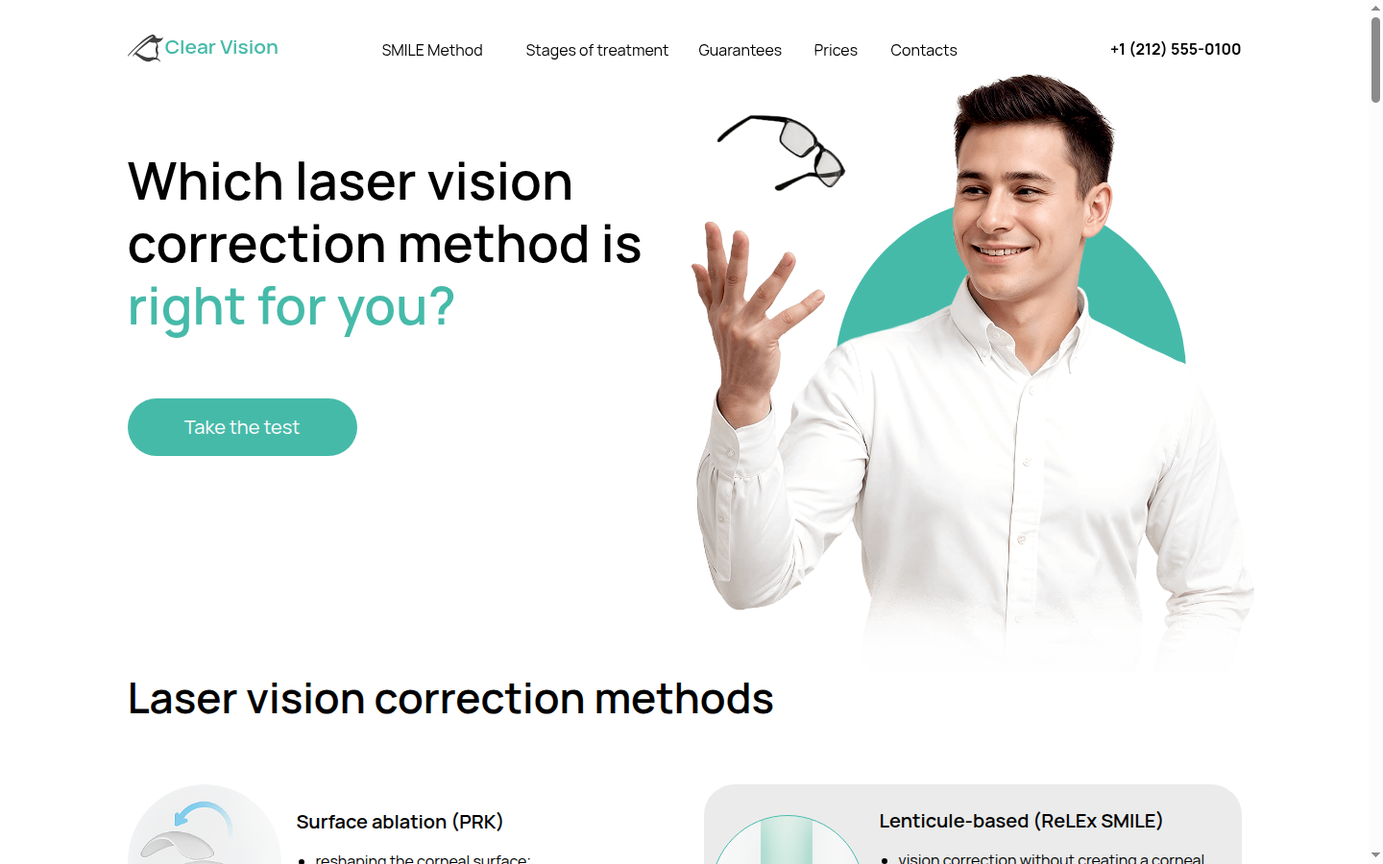
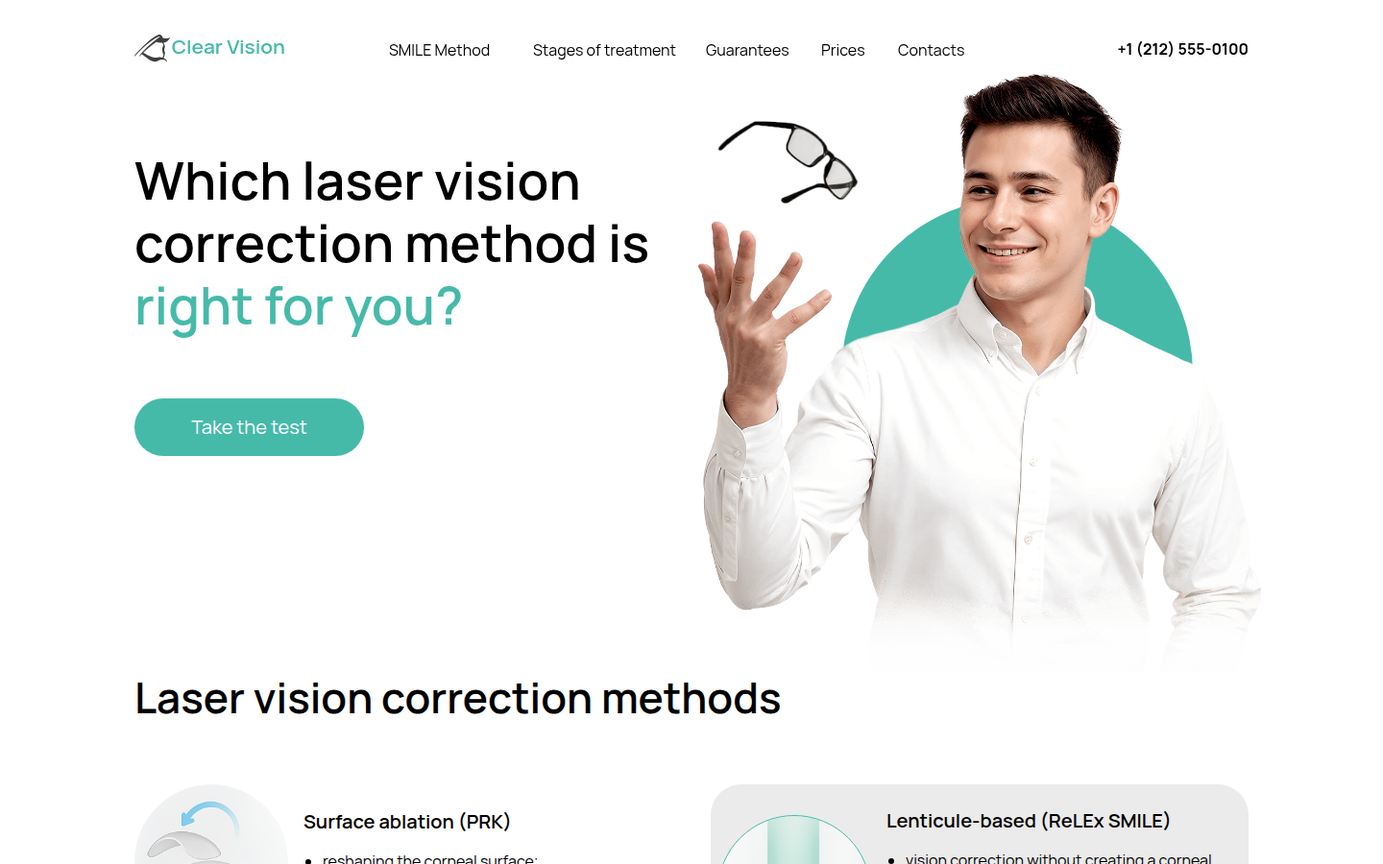
Refresh case screenshots without scrollbars

diff --git a/ru/index.html b/ru/index.html
@@ -1,11 +1,11 @@
 <!doctype html>
 <html lang="ru"><head><meta charset="utf-8"><meta name="viewport" content="width=device-width,initial-scale=1"><title>Clear Vision — кейс сайта офтальмологической клиники</title><meta name="description" content="Кейс англоязычной адаптации сайта клиники зрения: задача, решения и дизайн."><meta property="og:title" content="Clear Vision — кейс сайта клиники зрения"><meta property="og:description" content="Понятный путь пациента на сайте клиники зрения."><meta property="og:type" content="website"><link rel="stylesheet" href="../style.css"><link rel="icon" href="../assets/img/favicon.svg" type="image/svg+xml"><style>section[id]{scroll-margin-top:64px}</style></head>
 <body><header class="bar"><div class="wrap"><span class="name-ph"><img src="../assets/img/maksim-avatar.webp" alt="" width="30" height="30">Максим Коцарь<em> · сайты для медицинских клиник</em></span><nav class="nav" aria-label="Разделы"><a href="#task">Задача</a><a href="#process">Процесс</a><a href="#decisions">Решения</a><a href="#design">Дизайн</a><a href="#result">Итог</a><a href="#reflection">Выводы</a></nav><div class="bar-r"><a class="btn" href="#contact">Связаться</a><button class="burger" type="button" aria-expanded="false" aria-controls="menu" aria-label="Открыть меню"><i></i></button></div></div><nav class="menu" id="menu" aria-label="Мобильное меню"><small>Разделы</small><a href="#task">Задача</a><a href="#process">Процесс</a><a href="#decisions">Решения</a><a href="#design">Дизайн</a><a href="#result">Итог</a><a href="#reflection">Выводы</a><a class="btn" href="#contact">Связаться</a></nav><div class="progress" aria-hidden="true"></div></header>
-<main><div class="hero"><div class="wrap"><div class="hb-top"><div><div class="kicker">Концепт-кейс · Сайт клиники</div><h1><span class="hb-name">Clear Vision</span><span class="hb-sub">понятный путь пациента на сайте офтальмологической клиники</span></h1></div><div class="hb-right"><p class="lead">Лазерная коррекция зрения вызывает много вопросов. Англоязычная адаптация существующего сайта клиники помогает посетителю пройти путь от первого вопроса до консультации.</p><a class="site-link" href="https://clearvision.kotsardesign.com/" target="_blank" rel="noopener">Открыть сайт <span aria-hidden="true">↗</span></a></div></div><div class="teaser-frame"><a class="browser-shot" href="https://clearvision.kotsardesign.com/" target="_blank" rel="noopener" aria-label="Открыть сайт Clear Vision"><div class="browser-top" aria-hidden="true"><i></i><i></i><i></i><span>clearvision.kotsardesign.com</span></div><img src="../assets/img/desktop-hero.png" alt="Первый экран сайта Clear Vision" width="1440" height="900"></a></div><div class="hb-meta"><div><small>Проект</small><strong>Clear Vision</strong><span>концепция сайта клиники зрения</span></div><div><small>Моя роль</small><strong>Адаптация дизайна</strong><span>английские тексты, адаптив и фронтенд</span></div><div><small>Интерактив</small><strong>Тест из 6 шагов</strong><span>первый шаг к ответам на вопросы пациента</span></div><div class="res"><small>Итог</small><strong>Единый путь</strong><span>от знакомства с методиками до консультации</span></div></div></div></div>
+<main><div class="hero"><div class="wrap"><div class="hb-top"><div><div class="kicker">Концепт-кейс · Сайт клиники</div><h1><span class="hb-name">Clear Vision</span><span class="hb-sub">понятный путь пациента на сайте офтальмологической клиники</span></h1></div><div class="hb-right"><p class="lead">Лазерная коррекция зрения вызывает много вопросов. Англоязычная адаптация существующего сайта клиники помогает посетителю пройти путь от первого вопроса до консультации.</p><a class="site-link" href="https://clearvision.kotsardesign.com/" target="_blank" rel="noopener">Открыть сайт <span aria-hidden="true">↗</span></a></div></div><div class="teaser-frame"><a class="browser-shot" href="https://clearvision.kotsardesign.com/" target="_blank" rel="noopener" aria-label="Открыть сайт Clear Vision"><div class="browser-top" aria-hidden="true"><i></i><i></i><i></i><span>clearvision.kotsardesign.com</span></div><img src="../assets/img/desktop-hero.png?v=2" alt="Первый экран сайта Clear Vision" width="1440" height="900"></a></div><div class="hb-meta"><div><small>Проект</small><strong>Clear Vision</strong><span>концепция сайта клиники зрения</span></div><div><small>Моя роль</small><strong>Адаптация дизайна</strong><span>английские тексты, адаптив и фронтенд</span></div><div><small>Интерактив</small><strong>Тест из 6 шагов</strong><span>первый шаг к ответам на вопросы пациента</span></div><div class="res"><small>Итог</small><strong>Единый путь</strong><span>от знакомства с методиками до консультации</span></div></div></div></div>
 <section id="task"><div class="wrap"><div class="sec-head"><div><div class="kicker">Задача</div><h2>Помочь пациенту разобраться до обращения</h2></div><p class="lead">Адаптировать подробный сайт о коррекции зрения для англоязычной аудитории, сохранив спокойный характер и узнаваемый стиль оригинала.</p></div><p class="obj-intro">Решение об операции на глазах — личный выбор. Сайт должен помогать разобраться в сложной информации и отвечать на вопросы, с которыми приходит посетитель.</p><div class="objections"><div class="obj"><div class="q">«С чего начать?»</div><p>Разные методики и незнакомые термины затрудняют первый шаг.</p></div><div class="obj"><div class="q">«Что будет дальше?»</div><p>Посетителю важно понять, как проходят консультация, процедура и восстановление.</p></div><div class="obj"><div class="q">«Кому доверить зрение?»</div><p>Информация о врачах, оборудовании и наблюдении должна быть на виду.</p></div><div class="obj"><div class="q">«Можно задать вопрос?»</div><p>Когда посетитель готов обратиться, следующий шаг должен быть понятен.</p></div></div></div></section>
 <section id="process"><div class="wrap"><div class="sec-head"><div><div class="kicker">Процесс</div><h2>Путь, выстроенный вокруг вопросов пациента</h2></div><p class="lead">Я выстроил страницу как последовательность ответов: какие есть варианты, как всё проходит, кто будет заниматься лечением и как записаться?</p></div><div class="journey"><span>Вопрос</span><em>→</em><span>Методики</span><em>→</em><span>Процедура</span><em>→</em><span>Врачи</span><em>→</em><span>Восстановление</span><em>→</em><span>Консультация</span></div><div class="proto-grid"><figure class="proto-figure"><div class="proto-canvas"><div class="proto-bar short"></div><div class="proto-row"><div class="proto-content"><div class="proto-bar medium"></div><div class="proto-bar"></div><div class="proto-bar medium"></div><div class="proto-button"></div></div><div class="proto-box dark"></div></div><div class="proto-bar medium"></div><div class="proto-row"><div class="proto-box"></div><div class="proto-box"></div><div class="proto-box"></div></div><div class="proto-bar short"></div></div><figcaption>01 · Структура страницы: от первого вопроса до контакта</figcaption></figure><figure class="proto-figure"><div class="proto-canvas"><div class="proto-bar short"></div><div class="proto-bar medium"></div><div class="proto-box"></div><div class="proto-box"></div><div class="proto-box"></div><div class="proto-button"></div></div><figcaption>02 · Сравнение методик на одном экране</figcaption></figure><figure class="proto-figure"><div class="proto-canvas"><div class="proto-bar short"></div><div class="proto-bar medium"></div><div class="proto-box dark"></div><div class="proto-bar"></div><div class="proto-bar medium"></div><div class="proto-button"></div></div><figcaption>03 · Понятный путь к консультации</figcaption></figure></div><p class="case-note">Схемы восстановлены по готовой странице, чтобы показать логику расположения блоков.</p><p class="quote-note">Главный вывод: объяснять решения поэтапно, показывать специалистов и оставлять следующий шаг на виду.</p></div></section>
 <section id="decisions"><div class="wrap"><div class="sec-head"><div><div class="kicker">Ключевые решения</div><h2>Меньше неопределённости — больше ясности</h2></div><p class="lead">Знакомый визуальный язык и последовательная подача помогают понять предложение клиники до обращения.</p></div><div class="decisions"><article class="dec"><div class="n">01</div><h3>Начать с вопроса пациента</h3><p>Первый экран задаёт главный вопрос о выборе методики и предлагает начать с короткого теста.</p></article><article class="dec"><div class="n">02</div><h3>Сравнить методики</h3><p>SMILE, LASIK и поверхностная коррекция собраны рядом: различия можно увидеть, не разыскивая информацию по странице.</p></article><article class="dec"><div class="n">03</div><h3>Разделить процесс на этапы</h3><p>Подготовка, операция и восстановление показаны отдельно, чтобы последовательность было проще понять.</p></article><article class="dec"><div class="n">04</div><h3>Показать людей, а не только технологии</h3><p>Карточки с именами и опытом знакомят посетителя с врачами. Информация об оборудовании остаётся доступной для тех, кому она важна.</p></article><article class="dec"><div class="n">05</div><h3>Тест как начало разговора</h3><p>Шесть вопросов помогают посетителю подготовиться к консультации. Тест предлагает обсудить результаты с врачом.</p></article><article class="dec"><div class="n">06</div><h3>Удобство на небольшом экране</h3><p>В мобильной версии блоки выстроены друг за другом, текст легко читать, а кнопки удобно нажимать.</p></article></div></div></section>
-<section id="design"><div class="wrap"><div class="sec-head"><div><div class="kicker">Дизайн</div><h2>Спокойный визуальный стиль для важного решения</h2></div><div><p class="lead">Медицинские фотографии сочетаются с мягким серым фоном, свободным пространством и узнаваемым бирюзовым цветом клиники.</p><div class="legend"><div><span class="tag t-trust">Доверие</span> показывает специалистов и заботу</div><div><span class="tag t-want">Ясность</span> помогает быстро разобраться</div><div><span class="tag t-buy">Действие</span> подсказывает следующий шаг</div></div></div></div><figure class="shot"><div class="media"><img src="../assets/img/desktop-hero.png" alt="Первый экран сайта Clear Vision с кнопкой теста" loading="lazy" width="1440" height="900"></div><figcaption class="cap"><h3>Вопрос на первом экране<span class="tags"><span class="tag t-want">Ясность</span><span class="tag t-buy">Действие</span></span></h3><p>Заголовок превращает сложный выбор в понятный вопрос. Главная кнопка предлагает узнать о доступных вариантах.</p></figcaption></figure><figure class="shot"><div class="media"><img src="../assets/img/methods.png" alt="Сравнение методов коррекции зрения" loading="lazy" width="1440" height="900"></div><figcaption class="cap"><h3>Понятное сравнение методик<span class="tags"><span class="tag t-want">Ясность</span></span></h3><p>Иллюстрации и короткие описания помогают сравнить методики и разобраться в сложной теме.</p></figcaption></figure><figure class="shot"><div class="media"><img src="../assets/img/doctors.png" alt="Карточки специалистов и кнопки записи" loading="lazy" width="1440" height="900"></div><figcaption class="cap"><h3>Знакомство со специалистами<span class="tags"><span class="tag t-trust">Доверие</span></span></h3><p>Фотографии, должности и опыт показывают людей, которым пациент доверяет своё зрение. Рядом с каждой карточкой — кнопка записи.</p></figcaption></figure><figure class="shot"><div class="showcase-pair"><div class="media"><img src="../assets/img/recovery.png" alt="Информация о восстановлении и форма консультации" loading="lazy" width="1440" height="900"></div><div class="media"><img src="../assets/img/price.png" alt="Раздел стоимости коррекции зрения" loading="lazy" width="1440" height="900"></div></div><figcaption class="cap"><h3>Ответы до обращения<span class="tags"><span class="tag t-trust">Доверие</span><span class="tag t-buy">Действие</span></span></h3><p>Восстановлению, оборудованию и стоимости выделены отдельные блоки. Форма консультации появляется после необходимой информации.</p></figcaption></figure><figure class="shot"><div class="mobile-stage"><div class="phones"><div class="phone"><img src="../assets/img/mobile-hero.png" alt="Главная страница на телефоне" loading="lazy" width="390" height="844"></div><div class="phone"><img src="../assets/img/mobile-quiz.png" alt="Тест на телефоне" loading="lazy" width="390" height="844"></div></div></div><figcaption class="cap"><h3>Адаптация для телефона<span class="tags"><span class="tag t-buy">Действие</span></span></h3><p>На телефоне блоки расположены последовательно, а тест помещается на экране. Кнопки, текст и навигация остаются удобными.</p></figcaption></figure></div></section>
+<section id="design"><div class="wrap"><div class="sec-head"><div><div class="kicker">Дизайн</div><h2>Спокойный визуальный стиль для важного решения</h2></div><div><p class="lead">Медицинские фотографии сочетаются с мягким серым фоном, свободным пространством и узнаваемым бирюзовым цветом клиники.</p><div class="legend"><div><span class="tag t-trust">Доверие</span> показывает специалистов и заботу</div><div><span class="tag t-want">Ясность</span> помогает быстро разобраться</div><div><span class="tag t-buy">Действие</span> подсказывает следующий шаг</div></div></div></div><figure class="shot"><div class="media"><img src="../assets/img/desktop-hero.png?v=2" alt="Первый экран сайта Clear Vision с кнопкой теста" loading="lazy" width="1440" height="900"></div><figcaption class="cap"><h3>Вопрос на первом экране<span class="tags"><span class="tag t-want">Ясность</span><span class="tag t-buy">Действие</span></span></h3><p>Заголовок превращает сложный выбор в понятный вопрос. Главная кнопка предлагает узнать о доступных вариантах.</p></figcaption></figure><figure class="shot"><div class="media"><img src="../assets/img/methods.png?v=2" alt="Сравнение методов коррекции зрения" loading="lazy" width="1440" height="900"></div><figcaption class="cap"><h3>Понятное сравнение методик<span class="tags"><span class="tag t-want">Ясность</span></span></h3><p>Иллюстрации и короткие описания помогают сравнить методики и разобраться в сложной теме.</p></figcaption></figure><figure class="shot"><div class="media"><img src="../assets/img/doctors.png?v=2" alt="Карточки специалистов и кнопки записи" loading="lazy" width="1440" height="900"></div><figcaption class="cap"><h3>Знакомство со специалистами<span class="tags"><span class="tag t-trust">Доверие</span></span></h3><p>Фотографии, должности и опыт показывают людей, которым пациент доверяет своё зрение. Рядом с каждой карточкой — кнопка записи.</p></figcaption></figure><figure class="shot"><div class="showcase-pair"><div class="media"><img src="../assets/img/recovery.png?v=2" alt="Информация о восстановлении и форма консультации" loading="lazy" width="1440" height="900"></div><div class="media"><img src="../assets/img/price.png?v=2" alt="Раздел стоимости коррекции зрения" loading="lazy" width="1440" height="900"></div></div><figcaption class="cap"><h3>Ответы до обращения<span class="tags"><span class="tag t-trust">Доверие</span><span class="tag t-buy">Действие</span></span></h3><p>Восстановлению, оборудованию и стоимости выделены отдельные блоки. Форма консультации появляется после необходимой информации.</p></figcaption></figure><figure class="shot"><div class="mobile-stage"><div class="phones"><div class="phone"><img src="../assets/img/mobile-hero.png?v=2" alt="Главная страница на телефоне" loading="lazy" width="390" height="844"></div><div class="phone"><img src="../assets/img/mobile-quiz.png?v=2" alt="Тест на телефоне" loading="lazy" width="390" height="844"></div></div></div><figcaption class="cap"><h3>Адаптация для телефона<span class="tags"><span class="tag t-buy">Действие</span></span></h3><p>На телефоне блоки расположены последовательно, а тест помещается на экране. Кнопки, текст и навигация остаются удобными.</p></figcaption></figure></div></section>
 <section id="result"><div class="wrap"><div class="sec-head"><div><div class="kicker">Результат</div><h2>От сложного выбора к понятному шагу</h2></div><p class="lead">Получилась англоязычная концепция, которая сохраняет дизайн исходного сайта и делает содержание и основные сценарии доступнее для новой аудитории.</p></div><div class="ba"><div><small>Было</small><p>Русскоязычный сайт клиники с подробной информацией о лечении и сложившимся визуальным стилем.</p></div><div><small>Стало</small><p>Адаптивная англоязычная версия с тестом, обновлёнными текстами и понятной последовательностью блоков.</p></div><div><small>Что это даёт</small><p>Посетитель может изучить методики, познакомиться с врачами и найти следующий шаг на одной странице.</p></div></div><div class="stats"><div class="stat"><b>2 400</b><span>пример посещений</span></div><div class="stat"><b>78</b><span>пример обращений</span></div><div class="stat"><b>3,25%</b><span>пример конверсии</span></div><div class="stat"><b>68%</b><span>пример мобильной аудитории</span></div></div><p class="demo-note"><strong>Демонстрационные данные:</strong> эти цифры вымышлены и показывают формат будущего отчёта. Реальные результаты не измерялись.</p></div></section>
 <section id="reflection"><div class="wrap"><div class="sec-head"><div><div class="kicker">Вывод по проекту</div><h2>Ясность помогает почувствовать уверенность</h2></div><p class="lead">Медицинскому сайту нужно многое объяснить. Задача состояла в том, чтобы упорядочить информацию и сохранить характер оригинала.</p></div><div class="motion-note"><h3>Хороший дизайн помогает задавать правильные вопросы.</h3><p>Эта концепция показывает подход к удобному сайту для пациентов. Это работа для портфолио: отзыв клиента и реальные показатели не заявлены.</p></div></div></section>
 <section id="contact" class="contact"><picture class="contact-bg"><source media="(max-width:860px)" srcset="../assets/img/contact-mobile.webp" width="751" height="2000"><img src="../assets/img/contact-desktop.webp" alt="Максим Коцарь" width="1672" height="941" loading="lazy"></picture><div class="wrap contact-grid"><div class="cta"><div class="kicker">Обсудим ваш проект</div><h2>Напишите мне слово <em>«Аудит»</em></h2><p class="lead">Я посмотрю ваш сайт и предложу три идеи, которые сделают путь пациента понятнее.</p><div class="links"><a class="btn" href="mailto:maksim.kotsar.22@gmail.com?subject=%D0%90%D1%83%D0%B4%D0%B8%D1%82">maksim.kotsar.22@gmail.com</a><a class="btn ghost" href="https://t.me/maksimkotsar" target="_blank" rel="noopener">Telegram</a></div><p class="sign"><b>Максим Коцарь</b>UI/UX-дизайнер</p></div></div></section></main><footer><div class="wrap"><span>Максим Коцарь · дизайн сайтов</span><span>Концепция Clear Vision · 2026</span></div></footer><script src="script.js" defer></script></body></html>

diff --git a/index.html b/index.html
@@ -1,11 +1,11 @@
 <!doctype html>
 <html lang="en"><head><meta charset="utf-8"><meta name="viewport" content="width=device-width,initial-scale=1"><title>Clear Vision — vision clinic website case study</title><meta name="description" content="A design case study exploring an English-language vision clinic website, from the patient journey to a responsive experience."><meta property="og:title" content="Clear Vision — website case study"><meta property="og:description" content="A clearer patient journey for a vision clinic."><meta property="og:type" content="website"><link rel="stylesheet" href="style.css"><link rel="icon" href="assets/img/favicon.svg" type="image/svg+xml"></head>
 <body><header class="bar"><div class="wrap"><span class="name-ph"><img src="assets/img/maksim-avatar.webp" alt="" width="30" height="30">Maksim Kotsar<em> · websites for healthcare</em></span><nav class="nav" aria-label="Sections"><a href="#task">Challenge</a><a href="#process">Process</a><a href="#decisions">Decisions</a><a href="#design">Design</a><a href="#result">Results</a><a href="#reflection">Reflection</a></nav><div class="bar-r"><a class="btn" href="#contact">Contact me</a><button class="burger" type="button" aria-expanded="false" aria-controls="menu" aria-label="Open menu"><i></i></button></div></div><nav class="menu" id="menu" aria-label="Mobile sections"><small>Sections</small><a href="#task">Challenge</a><a href="#process">Process</a><a href="#decisions">Decisions</a><a href="#design">Design</a><a href="#result">Results</a><a href="#reflection">Reflection</a><a class="btn" href="#contact">Contact me</a></nav><div class="progress" aria-hidden="true"></div></header>
-<main><div class="hero"><div class="wrap"><div class="hb-top"><div><div class="kicker">Concept case study · Healthcare website</div><h1><span class="hb-name">Clear Vision</span><span class="hb-sub">a clearer patient journey for a vision clinic</span></h1></div><div class="hb-right"><p class="lead">Laser vision correction comes with a lot of questions. This English-language adaptation turns an existing clinic website into a clear, approachable journey from the first question to a consultation.</p><a class="site-link" href="https://clearvision.kotsardesign.com/" target="_blank" rel="noopener">Explore the website <span aria-hidden="true">↗</span></a></div></div><div class="teaser-frame"><a class="browser-shot" href="https://clearvision.kotsardesign.com/" target="_blank" rel="noopener" aria-label="Open the Clear Vision website"><div class="browser-top" aria-hidden="true"><i></i><i></i><i></i><span>clearvision.kotsardesign.com</span></div><img src="assets/img/desktop-hero.png" alt="Clear Vision website showing the opening screen" width="1440" height="900"></a></div><div class="hb-meta"><div><small>Project</small><strong>Clear Vision</strong><span>vision clinic website concept</span></div><div><small>My role</small><strong>Design adaptation</strong><span>English copy, responsive layout and front-end</span></div><div><small>Experience</small><strong>6-step quiz</strong><span>a simple starting point for patient questions</span></div><div class="res"><small>Outcome</small><strong>One clear journey</strong><span>from learning about procedures to a consultation</span></div></div></div></div>
+<main><div class="hero"><div class="wrap"><div class="hb-top"><div><div class="kicker">Concept case study · Healthcare website</div><h1><span class="hb-name">Clear Vision</span><span class="hb-sub">a clearer patient journey for a vision clinic</span></h1></div><div class="hb-right"><p class="lead">Laser vision correction comes with a lot of questions. This English-language adaptation turns an existing clinic website into a clear, approachable journey from the first question to a consultation.</p><a class="site-link" href="https://clearvision.kotsardesign.com/" target="_blank" rel="noopener">Explore the website <span aria-hidden="true">↗</span></a></div></div><div class="teaser-frame"><a class="browser-shot" href="https://clearvision.kotsardesign.com/" target="_blank" rel="noopener" aria-label="Open the Clear Vision website"><div class="browser-top" aria-hidden="true"><i></i><i></i><i></i><span>clearvision.kotsardesign.com</span></div><img src="assets/img/desktop-hero.png?v=2" alt="Clear Vision website showing the opening screen" width="1440" height="900"></a></div><div class="hb-meta"><div><small>Project</small><strong>Clear Vision</strong><span>vision clinic website concept</span></div><div><small>My role</small><strong>Design adaptation</strong><span>English copy, responsive layout and front-end</span></div><div><small>Experience</small><strong>6-step quiz</strong><span>a simple starting point for patient questions</span></div><div class="res"><small>Outcome</small><strong>One clear journey</strong><span>from learning about procedures to a consultation</span></div></div></div></div>
 <section id="task"><div class="wrap"><div class="sec-head"><div><div class="kicker">Challenge</div><h2>Help patients feel informed before they reach out</h2></div><p class="lead">Adapt a detailed vision correction website for an English-speaking audience while keeping the reassuring character and recognizable visual identity of the original.</p></div><p class="obj-intro">Choosing eye surgery is personal. The experience needed to make complex information easier to navigate and address the questions a visitor may bring to the page.</p><div class="objections"><div class="obj"><div class="q">“Where do I start?”</div><p>Several procedures and unfamiliar terms can make the first decision feel overwhelming.</p></div><div class="obj"><div class="q">“What happens next?”</div><p>Visitors need a clear picture of the consultation, procedure and recovery.</p></div><div class="obj"><div class="q">“Who can I trust?”</div><p>The people, equipment and follow-up care should be easy to find.</p></div><div class="obj"><div class="q">“Can I ask someone?”</div><p>The next step should stay visible when a visitor is ready to talk.</p></div></div></div></section>
 <section id="process"><div class="wrap"><div class="sec-head"><div><div class="kicker">Process</div><h2>A journey built around patient questions</h2></div><p class="lead">I mapped the page as a sequence of questions: what are my options, what happens, who will care for me, and how do I take the next step?</p></div><div class="journey"><span>Question</span><em>→</em><span>Options</span><em>→</em><span>Procedure</span><em>→</em><span>Specialists</span><em>→</em><span>Recovery</span><em>→</em><span>Consultation</span></div><div class="proto-grid"><figure class="proto-figure"><div class="proto-canvas"><div class="proto-bar short"></div><div class="proto-row"><div class="proto-content"><div class="proto-bar medium"></div><div class="proto-bar"></div><div class="proto-bar medium"></div><div class="proto-button"></div></div><div class="proto-box dark"></div></div><div class="proto-bar medium"></div><div class="proto-row"><div class="proto-box"></div><div class="proto-box"></div><div class="proto-box"></div></div><div class="proto-bar short"></div></div><figcaption>01 · Page structure, from first question to contact</figcaption></figure><figure class="proto-figure"><div class="proto-canvas"><div class="proto-bar short"></div><div class="proto-bar medium"></div><div class="proto-box"></div><div class="proto-box"></div><div class="proto-box"></div><div class="proto-button"></div></div><figcaption>02 · Comparing treatment options at a glance</figcaption></figure><figure class="proto-figure"><div class="proto-canvas"><div class="proto-bar short"></div><div class="proto-bar medium"></div><div class="proto-box dark"></div><div class="proto-bar"></div><div class="proto-bar medium"></div><div class="proto-button"></div></div><figcaption>03 · A focused consultation path</figcaption></figure></div><p class="case-note">Illustrative layout studies reconstructed from the finished page.</p><p class="quote-note">The direction became clear: explain one decision at a time, give the medical team a human presence, and keep the next step easy to find.</p></div></section>
 <section id="decisions"><div class="wrap"><div class="sec-head"><div><div class="kicker">Key decisions</div><h2>Less uncertainty, more clarity</h2></div><p class="lead">A familiar visual language and a simpler reading path help visitors understand what the clinic offers before they decide to get in touch.</p></div><div class="decisions"><article class="dec"><div class="n">01</div><h3>Start with the patient's question</h3><p>The opening screen asks which vision correction method might be right for the visitor, with one clear way to begin.</p></article><article class="dec"><div class="n">02</div><h3>Make the options comparable</h3><p>SMILE, flap-based LASIK and surface ablation are grouped together so the differences can be scanned without searching the page.</p></article><article class="dec"><div class="n">03</div><h3>Turn a long process into steps</h3><p>Before, during and after surgery are presented as separate stages, making the sequence easier to follow.</p></article><article class="dec"><div class="n">04</div><h3>Put people before technology</h3><p>Specialist profiles, names and experience bring a human face to a medical decision. Equipment details remain available for those who want them.</p></article><article class="dec"><div class="n">05</div><h3>A quiz that opens the conversation</h3><p>A six-question experience helps visitors reflect on their vision. It points to a consultation rather than making a diagnosis.</p></article><article class="dec"><div class="n">06</div><h3>Comfortable on a small screen</h3><p>The mobile version stacks information into readable sections, keeps touch targets generous and makes contact points easy to reach.</p></article></div></div></section>
-<section id="design"><div class="wrap"><div class="sec-head"><div><div class="kicker">Design</div><h2>A calm visual system for a personal decision</h2></div><div><p class="lead">The site pairs clean medical photography with soft gray surfaces, generous white space and the clinic's recognizable teal.</p><div class="legend"><div><span class="tag t-trust">Trust</span> brings care and expertise into view</div><div><span class="tag t-want">Clarity</span> makes information easier to scan</div><div><span class="tag t-buy">Action</span> gives visitors a simple next step</div></div></div></div><figure class="shot"><div class="media"><img src="assets/img/desktop-hero.png" alt="Clear Vision homepage with the main question and test button" loading="lazy" width="1440" height="900"></div><figcaption class="cap"><h3>A question that meets the visitor<span class="tags"><span class="tag t-want">Clarity</span><span class="tag t-buy">Action</span></span></h3><p>The headline turns an unfamiliar medical decision into a straightforward question. A single primary button invites visitors to explore their options.</p></figcaption></figure><figure class="shot"><div class="media"><img src="assets/img/methods.png" alt="A comparison of vision correction methods" loading="lazy" width="1440" height="900"></div><figcaption class="cap"><h3>Understand the options<span class="tags"><span class="tag t-want">Clarity</span></span></h3><p>Illustrations and short descriptions organize the methods side by side, making a dense subject more approachable.</p></figcaption></figure><figure class="shot"><div class="media"><img src="assets/img/doctors.png" alt="Specialist profiles and consultation buttons" loading="lazy" width="1440" height="900"></div><figcaption class="cap"><h3>Meet the specialists<span class="tags"><span class="tag t-trust">Trust</span></span></h3><p>Portraits, roles and experience put the people behind the procedure in focus. Appointment buttons appear alongside each profile.</p></figcaption></figure><figure class="shot"><div class="showcase-pair"><div class="media"><img src="assets/img/recovery.png" alt="Recovery information and consultation form" loading="lazy" width="1440" height="900"></div><div class="media"><img src="assets/img/price.png" alt="The vision correction pricing section" loading="lazy" width="1440" height="900"></div></div><figcaption class="cap"><h3>Answers before the next step<span class="tags"><span class="tag t-trust">Trust</span><span class="tag t-buy">Action</span></span></h3><p>Recovery, equipment and pricing each have a place in the journey. The consultation form follows the information rather than interrupting it.</p></figcaption></figure><figure class="shot"><div class="mobile-stage"><div class="phones"><div class="phone"><img src="assets/img/mobile-hero.png" alt="Mobile homepage" loading="lazy" width="390" height="844"></div><div class="phone"><img src="assets/img/mobile-quiz.png" alt="Mobile view of the vision questionnaire" loading="lazy" width="390" height="844"></div></div></div><figcaption class="cap"><h3>Made for the small screen<span class="tags"><span class="tag t-buy">Action</span></span></h3><p>On mobile, sections stack naturally and the six-step quiz fits the screen. Buttons, text and navigation stay easy to use.</p></figcaption></figure></div></section>
+<section id="design"><div class="wrap"><div class="sec-head"><div><div class="kicker">Design</div><h2>A calm visual system for a personal decision</h2></div><div><p class="lead">The site pairs clean medical photography with soft gray surfaces, generous white space and the clinic's recognizable teal.</p><div class="legend"><div><span class="tag t-trust">Trust</span> brings care and expertise into view</div><div><span class="tag t-want">Clarity</span> makes information easier to scan</div><div><span class="tag t-buy">Action</span> gives visitors a simple next step</div></div></div></div><figure class="shot"><div class="media"><img src="assets/img/desktop-hero.png?v=2" alt="Clear Vision homepage with the main question and test button" loading="lazy" width="1440" height="900"></div><figcaption class="cap"><h3>A question that meets the visitor<span class="tags"><span class="tag t-want">Clarity</span><span class="tag t-buy">Action</span></span></h3><p>The headline turns an unfamiliar medical decision into a straightforward question. A single primary button invites visitors to explore their options.</p></figcaption></figure><figure class="shot"><div class="media"><img src="assets/img/methods.png?v=2" alt="A comparison of vision correction methods" loading="lazy" width="1440" height="900"></div><figcaption class="cap"><h3>Understand the options<span class="tags"><span class="tag t-want">Clarity</span></span></h3><p>Illustrations and short descriptions organize the methods side by side, making a dense subject more approachable.</p></figcaption></figure><figure class="shot"><div class="media"><img src="assets/img/doctors.png?v=2" alt="Specialist profiles and consultation buttons" loading="lazy" width="1440" height="900"></div><figcaption class="cap"><h3>Meet the specialists<span class="tags"><span class="tag t-trust">Trust</span></span></h3><p>Portraits, roles and experience put the people behind the procedure in focus. Appointment buttons appear alongside each profile.</p></figcaption></figure><figure class="shot"><div class="showcase-pair"><div class="media"><img src="assets/img/recovery.png?v=2" alt="Recovery information and consultation form" loading="lazy" width="1440" height="900"></div><div class="media"><img src="assets/img/price.png?v=2" alt="The vision correction pricing section" loading="lazy" width="1440" height="900"></div></div><figcaption class="cap"><h3>Answers before the next step<span class="tags"><span class="tag t-trust">Trust</span><span class="tag t-buy">Action</span></span></h3><p>Recovery, equipment and pricing each have a place in the journey. The consultation form follows the information rather than interrupting it.</p></figcaption></figure><figure class="shot"><div class="mobile-stage"><div class="phones"><div class="phone"><img src="assets/img/mobile-hero.png?v=2" alt="Mobile homepage" loading="lazy" width="390" height="844"></div><div class="phone"><img src="assets/img/mobile-quiz.png?v=2" alt="Mobile view of the vision questionnaire" loading="lazy" width="390" height="844"></div></div></div><figcaption class="cap"><h3>Made for the small screen<span class="tags"><span class="tag t-buy">Action</span></span></h3><p>On mobile, sections stack naturally and the six-step quiz fits the screen. Buttons, text and navigation stay easy to use.</p></figcaption></figure></div></section>
 <section id="result"><div class="wrap"><div class="sec-head"><div><div class="kicker">Result</div><h2>From a complex choice to a clearer next step</h2></div><p class="lead">The result is an English-language concept that preserves the original clinic's design while making its content and key interactions accessible to a wider audience.</p></div><div class="ba"><div><small>Before</small><p>A Russian-language clinic website with a detailed treatment story and an existing visual identity.</p></div><div><small>After</small><p>A responsive English adaptation with a guided quiz, refreshed copy and a clearer path through the page.</p></div><div><small>What it enables</small><p>Visitors can explore procedures, see the specialists and find the next step in one place.</p></div></div><div class="stats"><div class="stat"><b>2,400</b><span>illustrative sessions</span></div><div class="stat"><b>78</b><span>illustrative inquiries</span></div><div class="stat"><b>3.25%</b><span>illustrative conversion</span></div><div class="stat"><b>68%</b><span>illustrative mobile share</span></div></div><p class="demo-note"><strong>Demo data:</strong> these numbers are fictional placeholders used to show the intended reporting format. They are not measured results.</p></div></section>
 <section id="reflection"><div class="wrap"><div class="sec-head"><div><div class="kicker">Project reflection</div><h2>Clarity creates room for confidence</h2></div><p class="lead">A medical website has a lot to explain. The work here was to give that information a more natural order, without losing the character of the original.</p></div><div class="motion-note"><h3>Good design helps people ask better questions.</h3><p>This concept shows a direction for a patient-friendly experience. It is a portfolio demonstration; no client testimonial or performance result is claimed.</p></div></div></section>
 <section id="contact" class="contact"><picture class="contact-bg"><source media="(max-width:860px)" srcset="assets/img/contact-mobile.webp" width="751" height="2000"><img src="assets/img/contact-desktop.webp" alt="Maksim Kotsar" width="1672" height="941" loading="lazy"></picture><div class="wrap contact-grid"><div class="cta"><div class="kicker">Let's talk about your project</div><h2>Email me the word <em>“Audit”</em></h2><p class="lead">I'll review your website and share three ideas to make the patient journey clearer.</p><div class="links"><a class="btn" href="mailto:maksim.kotsar.22@gmail.com?subject=Audit">maksim.kotsar.22@gmail.com</a><a class="btn ghost" href="https://t.me/maksimkotsar" target="_blank" rel="noopener">Telegram</a></div><p class="sign"><b>Maksim Kotsar</b>UI/UX designer</p></div></div></section></main><footer><div class="wrap"><span>Maksim Kotsar · website design</span><span>Clear Vision concept · 2026</span></div></footer><script src="script.js" defer></script></body></html>
